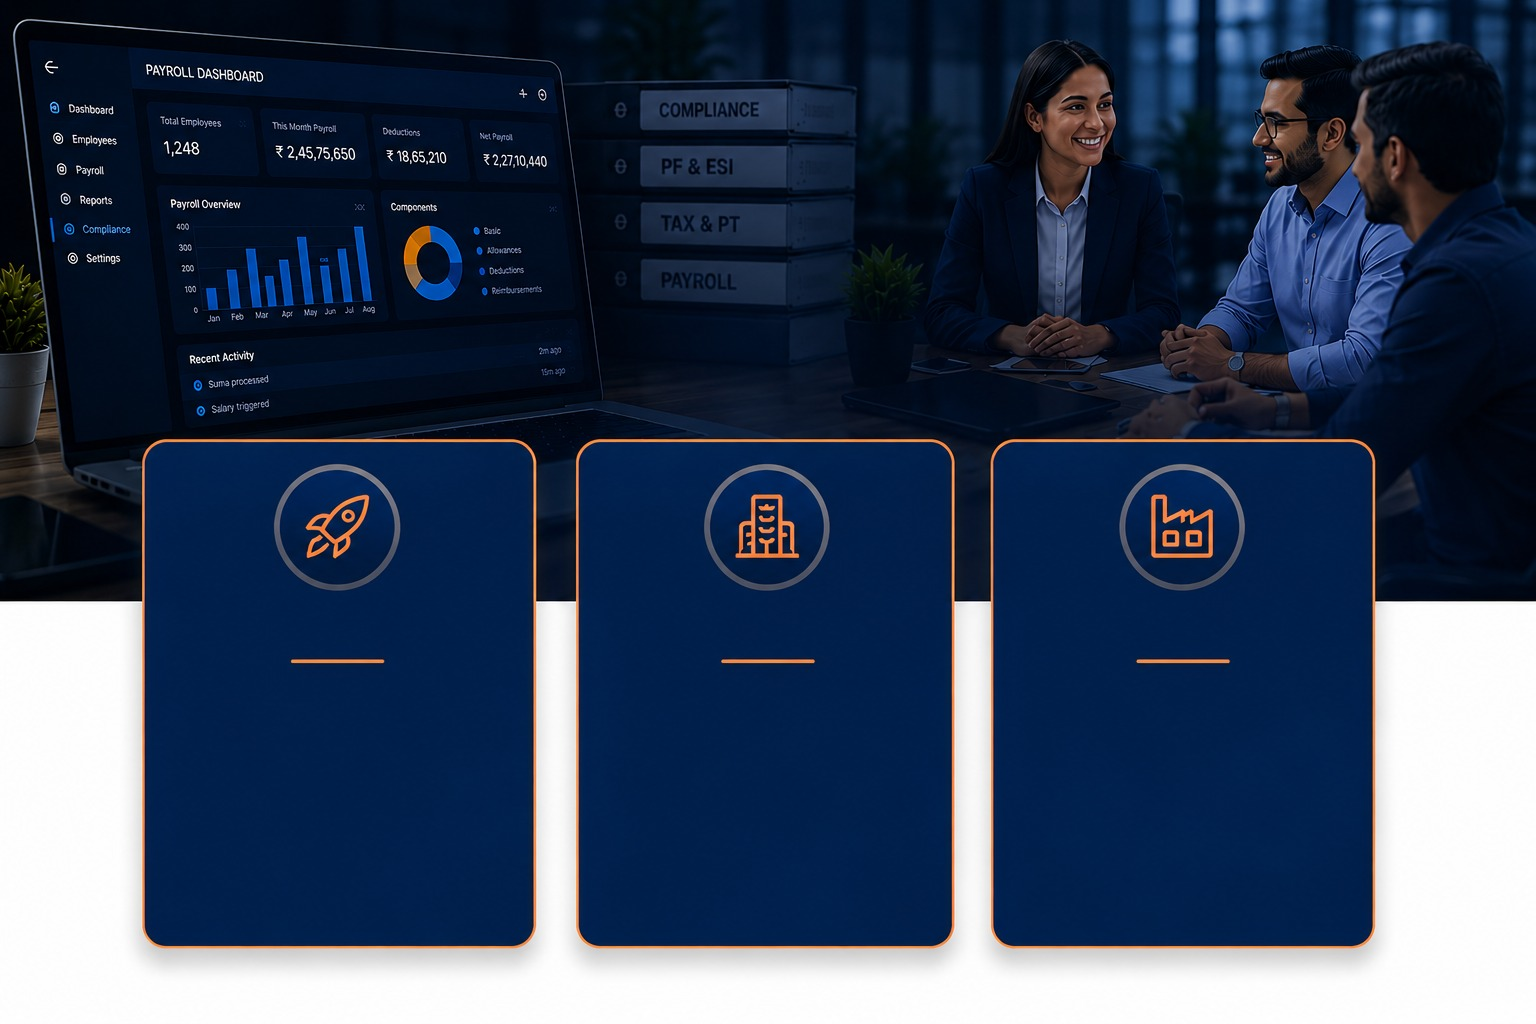
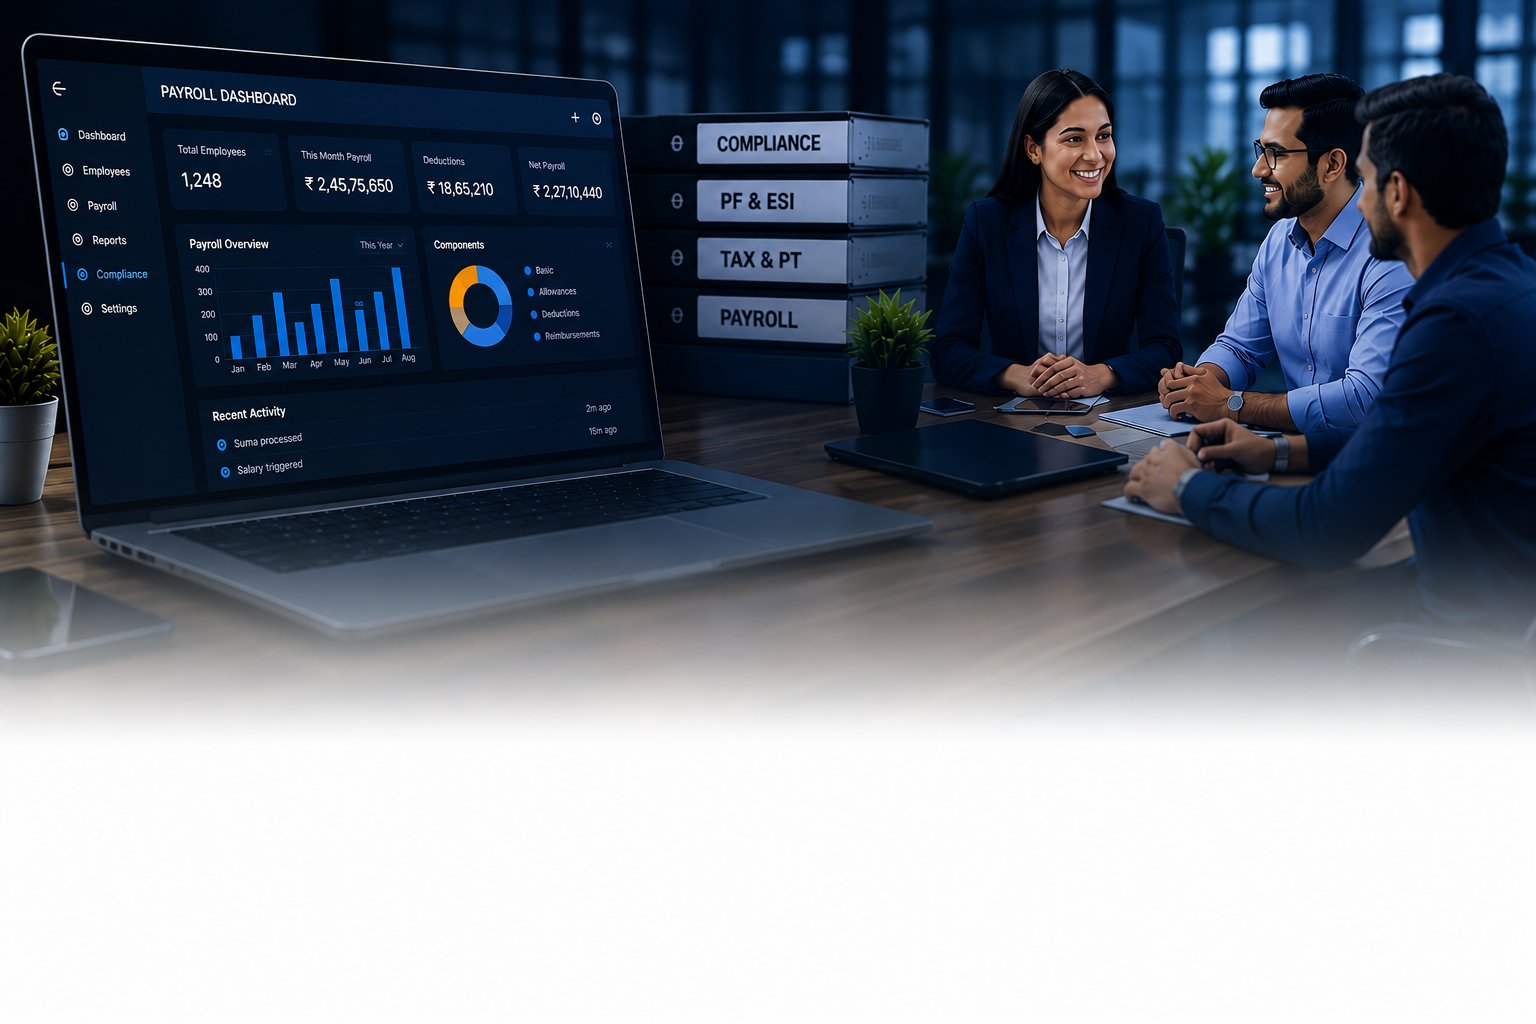
Payroll Processing Section 3 (Who Needs This): new bg image + client-specified card gradient
- Swapped payroll-who-bg.jpg for the new reference image (brighter/less
  overlaid, fades to white by ~80% down rather than to flat navy —
  confirmed via direct pixel sampling before designing around it).
- Card fill replaced with the client's exact 3-stop spec (top #123B82 /
  mid #0C2F6E / base #08285C) instead of last round's PIL-sampled navy.
  Border, checklist, and callout treatment unchanged.
- Structure: photo band is back to being a normal-flow div with an
  explicit height (not the flow-derived-height panel that broke last
  time), so the small negative margin used to overlap the cards into its
  faded tail can't shrink anything else's calculated height — that
  distinction (fixed-height sibling vs. flow-derived parent) is the
  actual fix, not just "avoid negative margins."
- Added a bottom-half fade-to-white overlay on the photo band as a
  safety net on top of the image's own fade, since the exact crop point
  varies by viewport and shouldn't be relied on alone.
- Added a subtle text-shadow to the hero heading/sub — the new image is
  busier/brighter in places (dashboard labels) than the previous one, so
  legibility isn't guaranteed by the image's darkness alone anymore.
- Removed the now-unused ak.payrollWhoNavy token (was PIL-sampled from
  the old reference image; had zero remaining consumers after this
  change) and added ak.payrollWhoCardTop/Mid/Base — documented as client-
  specified values, not sampled.
[…]

diff --git a/frontend/src/components/services/payroll-processing/PayrollWho.jsx b/frontend/src/components/services/payroll-processing/PayrollWho.jsx
@@ -4,7 +4,9 @@ import { Icon } from "../../../lib/icons";
 import { who } from "../../../data/svc-payroll-processing";
 
 const PersonaCard = ({ p }) => (
-  <div className="flex h-full flex-col rounded-2xl border-2 border-ak-orange/45 bg-white/[0.05] p-7 shadow-[0_24px_50px_-24px_rgba(0,0,0,0.55)]">
+  <div
+    className="flex h-full flex-col rounded-2xl border-2 border-ak-orange/45 bg-gradient-to-b from-[#123B82] via-[#0C2F6E] to-[#08285C] p-7 shadow-[0_24px_50px_-24px_rgba(8,40,92,0.55)]"
+  >
     <span className="mx-auto flex h-16 w-16 items-center justify-center rounded-full bg-ak-orange/15">
       <Icon name={p.icon} className="h-7 w-7 text-ak-orange" strokeWidth={1.75} />
     </span>
@@ -13,7 +15,7 @@ const PersonaCard = ({ p }) => (
 
     <ul className="mt-5 space-y-2.5 border-t border-white/[0.12] pt-5">
       {p.points.map((pt) => (
-        <li key={pt} className="flex items-start gap-2 text-[13px] leading-snug text-white/70">
+        <li key={pt} className="flex items-start gap-2 text-[13px] leading-snug text-white/75">
           <Icon name="checkCircle" className="mt-0.5 h-4 w-4 flex-shrink-0 text-ak-orange" strokeWidth={2} />
           {pt}
         </li>
@@ -30,41 +32,55 @@ const PersonaCard = ({ p }) => (
 );
 
 export const PayrollWho = () => (
-  <section id="svc-who" data-testid="payroll-who-section" className="relative bg-white">
-    {/* single navy-based section: photo is an absolutely-positioned decorative
-        top layer (out of normal flow), so it can never affect the height the
-        browser gives the section below it — cards sit in normal flow on the
-        section's own bg-payrollWhoNavy base, no negative-margin-across-
-        siblings overlap math needed (that approach silently clipped the
-        cards against the white section below, since a negative top margin
-        shrinks the parent's calculated height by the same amount). */}
-    <div className="relative overflow-hidden bg-payrollWhoNavy pb-14 md:pb-20">
-      <div
-        className="absolute inset-x-0 top-0 h-[420px] bg-cover bg-top md:h-[480px]"
-        style={{ backgroundImage: `url(${who.bgImage})` }}
-      >
-        <div className="absolute inset-0 bg-gradient-to-b from-payrollWhoNavy/45 via-payrollWhoNavy/70 to-payrollWhoNavy" />
-      </div>
-
-      <Container className="relative z-10">
-        <Reveal className="max-w-xl pt-16 md:ml-auto md:mr-4 md:pt-24 lg:mr-8">
-          <h2 className="font-display text-3xl font-extrabold leading-[1.08] tracking-tight text-white md:text-[2.65rem]">
+  <section id="svc-who" data-testid="payroll-who-section" className="bg-white">
+    {/* photo band — fixed height, normal flow (not absolutely positioned),
+        so its height is never ambiguous to anything after it. The asset
+        itself fades to white by ~80% down (confirmed by direct pixel
+        sampling); the overlay below reinforces that fade across the
+        bottom half of whatever height this band renders at, so the
+        transition to the white section background is reliable regardless
+        of exactly where the crop lands relative to the source image. */}
+    <div
+      className="relative h-[440px] overflow-hidden bg-cover bg-top md:h-[520px]"
+      style={{ backgroundImage: `url(${who.bgImage})` }}
+    >
+      <div className="absolute inset-x-0 bottom-0 h-1/2 bg-gradient-to-b from-transparent to-white" />
+      <Container className="relative z-10 h-full">
+        <Reveal className="max-w-xl pt-14 md:ml-auto md:mr-4 md:pt-16 lg:mr-8">
+          <h2
+            className="font-display text-3xl font-extrabold leading-[1.08] tracking-tight text-white md:text-[2.65rem]"
+            style={{ textShadow: "0 2px 16px rgba(0,0,0,0.45)" }}
+          >
             {who.heading[0]} <span className="text-ak-orange">{who.heading[1]}</span>
           </h2>
-          <p className="mt-5 text-[15px] leading-relaxed text-white/70 md:text-base">{who.sub}</p>
+          <p
+            className="mt-5 text-[15px] leading-relaxed text-white/90 md:text-base"
+            style={{ textShadow: "0 1px 12px rgba(0,0,0,0.5)" }}
+          >
+            {who.sub}
+          </p>
         </Reveal>
-
-        <RevealGroup className="mt-14 grid grid-cols-1 gap-6 md:mt-16 md:grid-cols-3" stagger={0.12}>
-          {who.personas.map((p) => (
-            <RevealItem key={p.title}>
-              <PersonaCard p={p} />
-            </RevealItem>
-          ))}
-        </RevealGroup>
       </Container>
     </div>
 
-    {/* bottom banner — unchanged, returns to light theme */}
+    {/* cards — separate sibling below the (fixed-height) photo band, pulled
+        up slightly for a bit of overlap into the band's already-faded-to-
+        white tail. Safe this time: the photo band's height is an explicit
+        h-[...] value, not derived from its children, so nothing here can
+        shrink it — this negative margin only adjusts the gap between two
+        siblings, not a parent's own calculated height (that distinction is
+        exactly what broke Section 3 earlier this thread). */}
+    <Container>
+      <RevealGroup className="-mt-20 grid grid-cols-1 gap-6 md:-mt-24 md:grid-cols-3" stagger={0.12}>
+        {who.personas.map((p) => (
+          <RevealItem key={p.title}>
+            <PersonaCard p={p} />
+          </RevealItem>
+        ))}
+      </RevealGroup>
+    </Container>
+
+    {/* bottom banner — unchanged */}
     <div className="bg-white py-14 md:py-20">
       <Container>
         <Reveal delay={0.15}>

diff --git a/frontend/tailwind.config.js b/frontend/tailwind.config.js
@@ -274,17 +274,17 @@ module.exports = {
           agreementsStep2: '#1C6BE4',
           agreementsStep3: '#10B57B',
           agreementsStep4: '#8256F3',
-          // Payroll Processing "Who Needs This" section (Section 3), client
-          // reference image + payroll-who-bg.jpg background asset. PIL most-
-          // common-pixel sample: overwhelmingly dominant value converged on
-          // #001F4B across ~25,000 sampled points (next-largest cluster was
-          // near-white highlight pixels, not a competing dark tone). Distinct
-          // from both ak.navy (#111C27) and ak.ink (#1C2A39) — genuinely more
-          // saturated/blue, not a charcoal — diff exceeds the ~5-unit reuse
-          // tolerance on R and B channels against both, so added as its own
-          // token rather than reused. Used as the solid fill for the panel
-          // below the photo band and the persona cards themselves.
-          payrollWhoNavy: '#001F4B',
+          // Payroll Processing "Who Needs This" section (Section 3), round 2.
+          // The Section 3 rebuild from earlier this thread sampled a navy
+          // (#001F4B) from the original reference photo for the card fill —
+          // client replaced that reference image and, this round, gave the
+          // card background as a direct 3-stop gradient spec rather than
+          // asking for another sample, so these are user-specified values,
+          // not PIL-sampled. #001F4B is no longer used anywhere on this
+          // page (removed rather than left as dead weight in the palette).
+          payrollWhoCardTop: '#123B82',
+          payrollWhoCardMid: '#0C2F6E',
+          payrollWhoCardBase: '#08285C', // also the client's stated "Primary Navy" — matches the gradient's own bottom stop
           // Payroll Processing "Scope" section (Section 5) redesign, client
           // reference image + payroll-scope-bg.jpg background asset. PIL
           // most-common-pixel sample, averaged across the top convergent